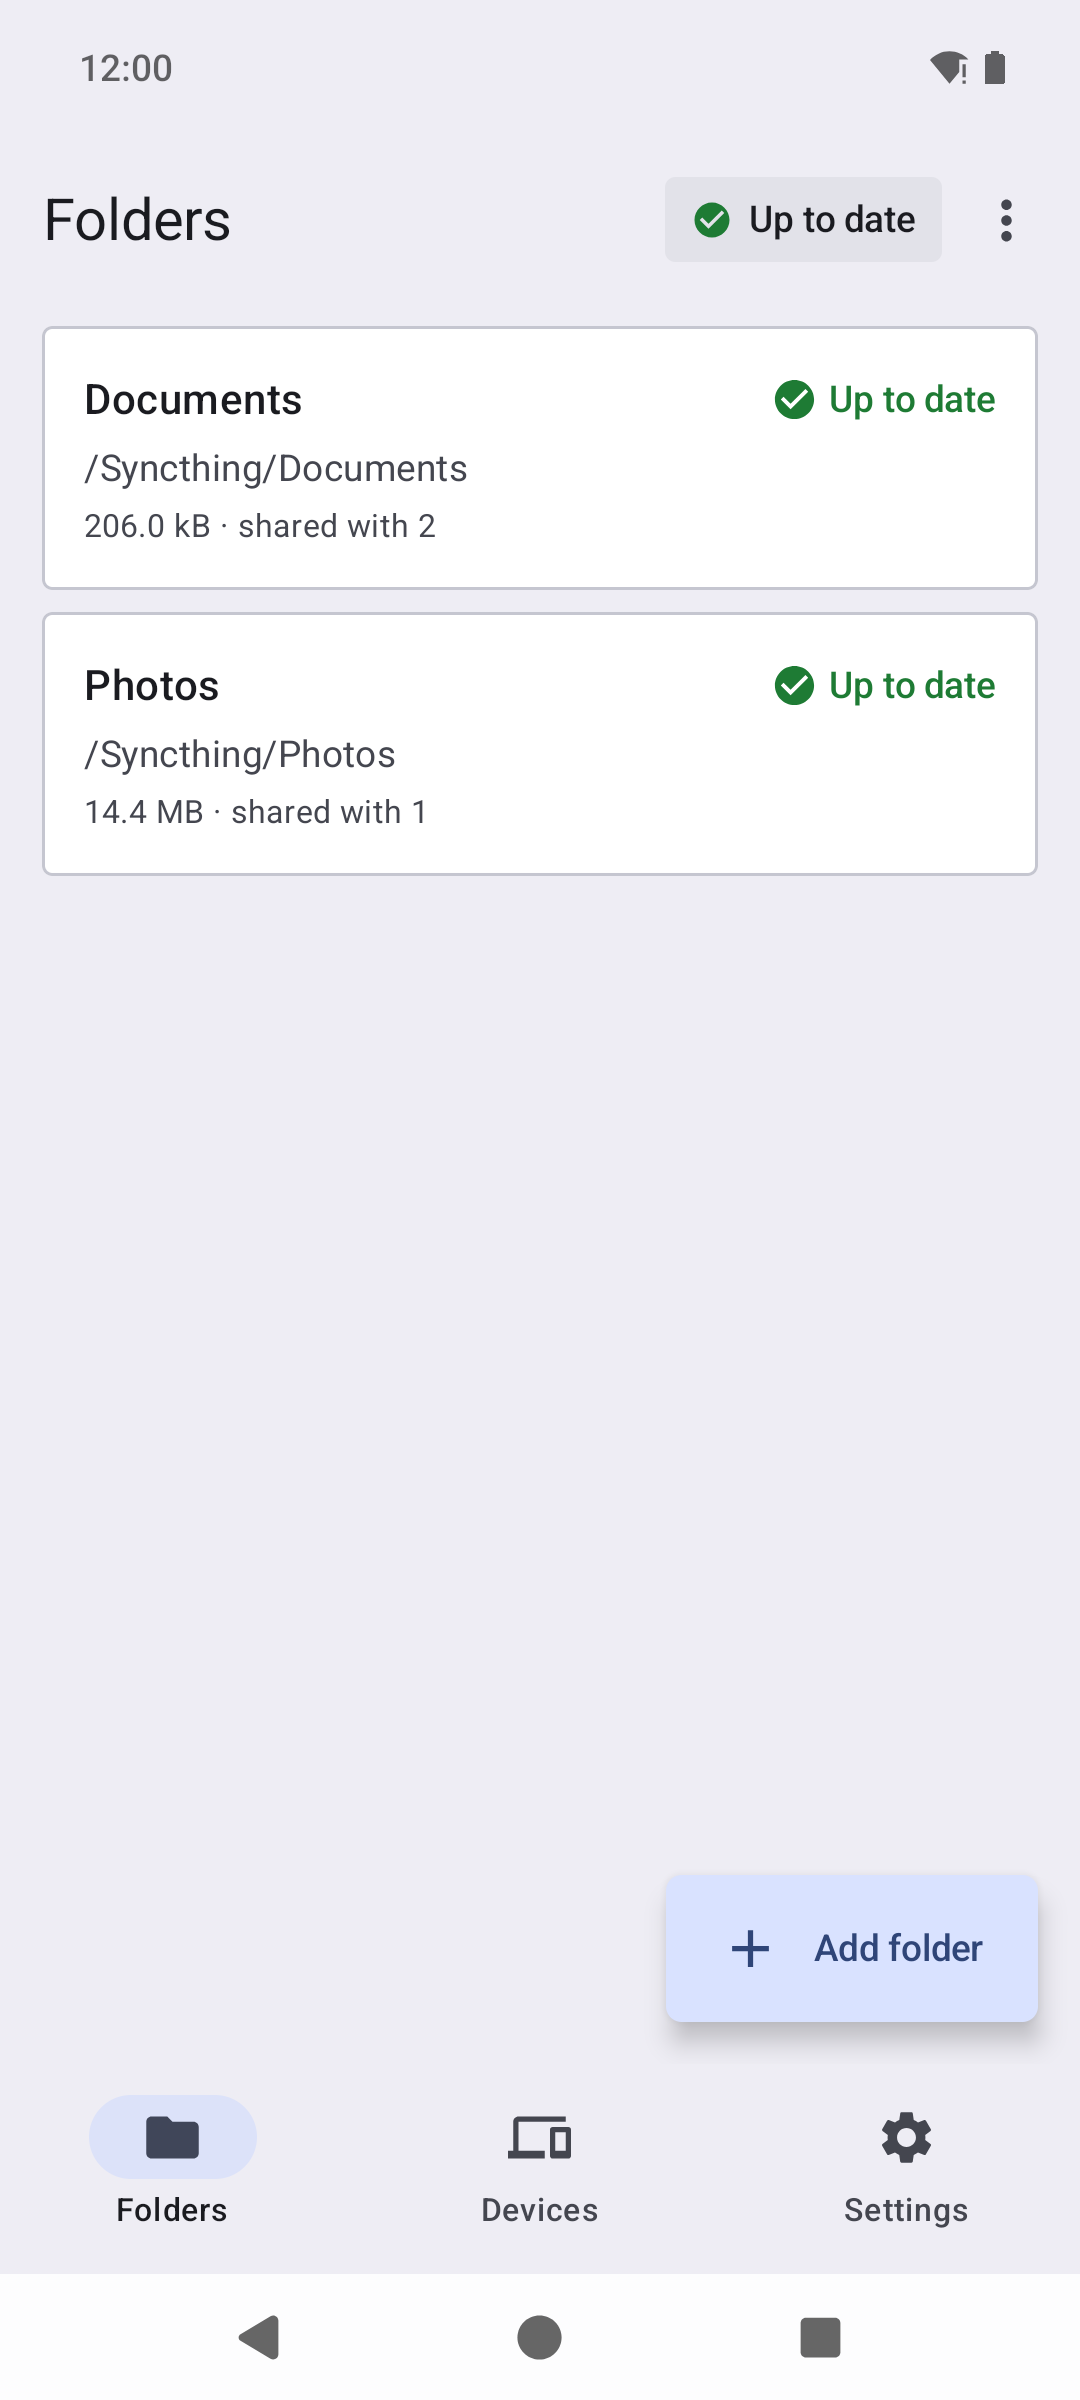
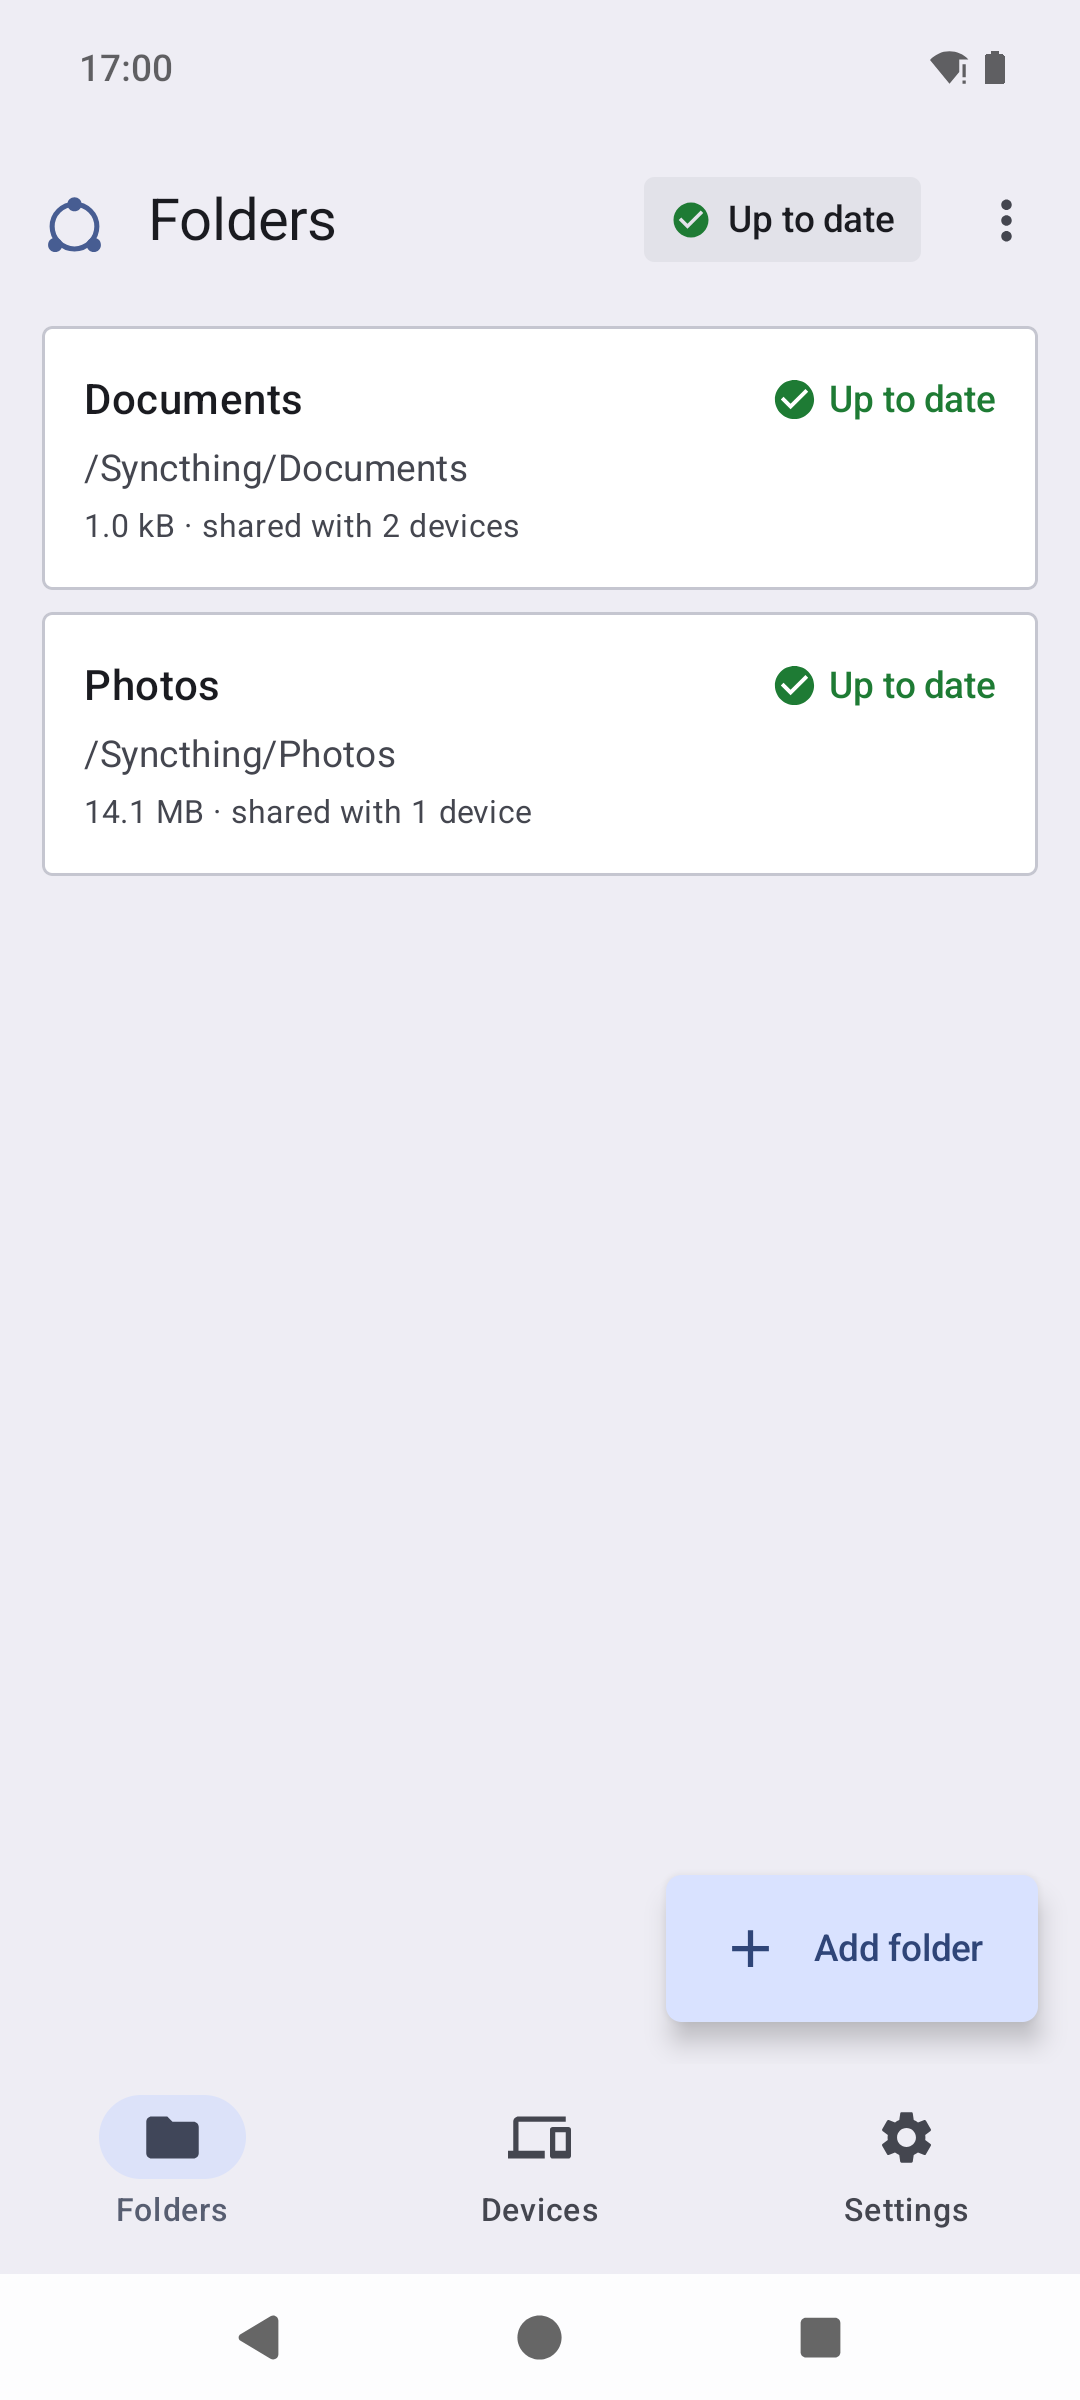
Screenshots after per-device pause and sync windows
Six phone screenshots retaken on the API 36 emulator with demo peers
(Laptop, Tablet) on main 05ee8de: the Devices tab now shows the All
devices row (Pause syncing, Sync windows, defaults marked), the pause
button on each card and Last seen. The widget image is built from four
emulator captures (up to date, syncing 43 %, no network, paused), with
transparent rounded corners as before. README alt texts follow.

Claude-Session: https://claude.ai/code/session_01NouFthtu9qFyTA8ioprQLd

diff --git a/README.md b/README.md
@@ -8,7 +8,7 @@ MySyncthing is vibecoded: an AI coding assistant (Claude) wrote nearly all of it
 
 See your sync status at a glance, without opening the app. The widget is a single row like a search bar, and you can stretch it sideways. It shows whether everything is up to date, syncing (with progress), paused or needs your attention, and which devices are connected, or when one last was. Its button pauses and resumes syncing, and a tap opens the app. Colours and icons follow your wallpaper and dark mode.
 
-<p align="center"><img src="docs/images/widget.png" width="400" alt="The widget in four states: up to date, syncing at 71 %, no network, and paused"></p>
+<p align="center"><img src="docs/images/widget.png" width="400" alt="The widget in four states: up to date, syncing at 43 %, no network, and paused"></p>
 
 ## Features
 
@@ -71,7 +71,7 @@ What each test covers, with its numbers: [testing and hardening](docs/testing.md
 <p align="center">
 <img src="fastlane/metadata/android/en-US/images/phoneScreenshots/1-folders.png" width="240" alt="Folders: each folder is a card with its path, size, devices and status">
 <img src="fastlane/metadata/android/en-US/images/phoneScreenshots/2-folder.png" width="240" alt="A folder's own screen with its status, sharing and settings">
-<img src="fastlane/metadata/android/en-US/images/phoneScreenshots/3-devices.png" width="240" alt="Devices: this device with its ID, and the other devices with their connection and status">
+<img src="fastlane/metadata/android/en-US/images/phoneScreenshots/3-devices.png" width="240" alt="Devices: this device with its ID, the All devices row with Pause syncing and Sync windows, and the other devices with their status, a pause button and when they were last seen">
 </p>
 <p align="center">
 <img src="fastlane/metadata/android/en-US/images/phoneScreenshots/4-restore.png" width="240" alt="Restoring an older version of a file">
